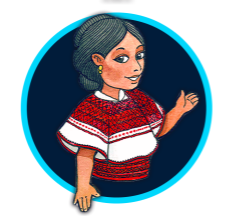
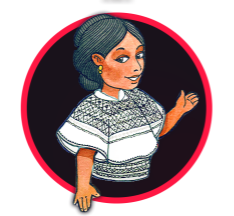
Juego 1: Correcciones

diff --git a/pantallas/juego1/js/main.js b/pantallas/juego1/js/main.js
@@ -2,12 +2,12 @@ var tablero;
 var gradSort=[];
 var texto=[
     '<p>Vamos a poner a prueba tus habilidades.</p><p><span class="colorAmarillo">Toca las piezas para alinear los tubos</span> y hacer que el agua fluya para llenar el  nuestro primer cántaros. Con ello podremos almacenar agua y mantenerla fresca.</p>',
-    '<p>Acabas de llenar tu primer cántaro. Cuando estés listo, pulsa para <span class="colorAmarillo">Siguiente</span> continuar...</p>',
-    '<p>Toca las piezas para alinearlas y hacer que el chorro de agua fluya para llenarel segundo cántaro y comenzar a armar una pila.</p>',
-    '<p><span class="colorVerde">¡Muy bien!</span> Acabas de llenar el segundo cántaro.Solo falta uno más</p>',
+    '<p>Acabas de llenar tu primer cántaro. Cuando estés listo, pulsa para <span class="colorAzul">Siguiente</span> continuar...</p>',
+    '<p>Toca las piezas para alinearlas y hacer que el chorro de agua fluya para llenar el segundo cántaro y comenzar a armar una pila.</p>',
+    '<p><span class="colorVerde">¡Muy bien!</span> Acabas de llenar el segundo cántaro.</p><p>¡Solo falta uno más!</p>',
     '<p>Toca las piezas para conectar los tubos y llenar el tercer cántaro.</p>',
     '<p>Ahora los cántaros de barro están llenos y habrá suficiente agua fresca para todos.<br><span class="colorVerde">¡Muchas gracias!</span></p>',
-    '<p>Muchas gracias por ayudarnos te has ganado la siguiente insignia como recompensa. <span class="colorAmarillo">Jaguar de Barro</span></p><p>Eso te convierte en un colega artesano experto en Barro.</p>',
+    '<p>Muchas gracias por ayudarnos te has ganado la siguiente insignia como recompensa.<br><span class="colorAmarillo">Jaguar de Barro</span></p><p>Eso te convierte en un colega artesano <span class="colorRojo">experto en Barro.</span></p>',
     '<p>Parece que a manchas le caíste muy bien, quizá te ayude en tu aventura para encontrar <b class="colorVerde">Grandes Maestros Artesanos</b> de todo el país y así descubrir sus <b>técnicas y materiales</b>.<br>¡Suerte en tu aventura!</p>'
 ]
 //                 0               1                2               3                4                 5
@@ -308,8 +308,12 @@ var gameData=[
 
 $(document).ready(inicio);
 function inicio(){
-    typingSound = new buzz.sound("../../audios/UX_Interaccion/blip.mp3",{loop: true,volume: 1});
-    aplausos = new buzz.sound("../../audios/Juegos/applause_VFX.mp3", {loop: false, volume: 1});
+    typingSound = new buzz.sound("../../audios/UX_Interaccion/blip.mp3",{loop: true, volume: 7});
+    aplausos = new buzz.sound("../../audios/Juegos/applause_VFX.mp3", {loop: false, volume: 20});
+    aplausosFin = new buzz.sound("../../audios/Juegos/Win_SergiodelaCruzHernan.mp3", {loop: false, volume: 2});
+    gracias = new buzz.sound('../../audios/editados/juego1.8.mp3', {loop: false,volume: 100});
+    vozFinal = new buzz.sound('../../audios/editados/juego1.9.mp3', {loop: false,volume: 100});
+    muyBien = new buzz.sound('audio/juego1-5.mp3', {loop: false,volume: 100});
     tablero = $('.gameActionWrp').html();
     cargarJuego(0);
     animartexto('.instTxt',texto[0]);
@@ -500,6 +504,7 @@ function nivelCompletado() {
         $('#niv1Ok').css('display','block');
         $('#chorroFinal').css({ 'top': '295px', 'display': 'block'});
         $('#btnDescripcion').css('display','block').off('click').on('click', jugar);
+        aplausos.play();
     }else if(nivel===2){
         txt = texto[3];
         imgElena = imgRoute+'bernardina.png';
@@ -507,6 +512,7 @@ function nivelCompletado() {
         $('#niv2Ok').css('display','block');
         $('#chorroFinal').css({ 'top': '140px', 'display': 'block'});
         $('#btnDescripcion').css('display','block').off('click').on('click', jugar);
+        muyBien.play();
     }else if(nivel===3){
         txt = texto[5];
         imgElena = imgRoute+'bernardina.png';
@@ -515,8 +521,8 @@ function nivelCompletado() {
         $('#chorroFinal').css({ 'top': '140px', 'display': 'block'});
         $('#btnDescripcion').css('display','block').off('click');
         $('#btnDescripcion').on('click', finalizar);
+        muyBien.play();
     }
-    aplausos.play();
     $('#elenaImagen').attr('src',imgElena);
     $('.instTxt').empty();
     animartexto('.instTxt', txt);
@@ -547,16 +553,18 @@ function validarCompletado(n){
     return true;
 }
 function finalizar() {
+    aplausosFin.play();
     confeti();
-
     $('.gameDesc h3').empty();
     imgPremio='<img src="img/premio.png" id="imgPremio" class="animated flipInX">';
     $('.gameboardWrpr').empty().append(imgPremio);
     imgElena=imgRoute+'elena.png';
     $('#elenaImagen').attr('src',imgElena);
     $('.instTxt').empty();
+    gracias.play();
     animartexto('.instTxt', texto[6]);
     $('#btnDescripcion').off('click').css('z-index','100').on('click', function(){
+        vozFinal.play();
         $('.instTxt').empty();
         animartexto('.instTxt', texto[7]);
         $(this).off('click');

diff --git a/pantallas/juego1/css/style.css b/pantallas/juego1/css/style.css
@@ -11,6 +11,12 @@ img {
 .colorVerde {
   color: #07dd00; }
 
+.colorAzul {
+  color: #00d7fc; }
+
+.colorRojo {
+  color: #ff1743; }
+
 .tuboInicio,
 .manivela,
 .finTubo {
@@ -114,8 +120,9 @@ img {
     right: -130px;
     top: 20px; }
   #juego1.contenedor {
-    width: 1920px;
-    height: 1080px; }
+    position: relative;
+    height: 1080px;
+    width: 1920px; }
   #juego1 .cabecera {
     position: relative;
     display: block;
@@ -178,20 +185,23 @@ img {
     border-left: solid 2px #00d7fc;
     border-top: solid 2px #00d7fc;
     background-color: #011c3a;
+    margin-left: -912.5px;
     align-items: center;
     position: absolute;
     padding-top: 10px;
-    margin: 0 auto;
     display: flex;
-    width: 1824px;
+    width: 1825px;
     height: 277px;
-    left: 48px;
+    left: 50%;
     bottom: 0; }
     #juego1 .gameinst .elenaimg {
       flex-basis: 320px; }
     #juego1 .gameinst .instTxt {
+      font-weight: bolder;
       flex-basis: 1500px;
       font-size: 28px; }
+    #juego1 .gameinst #elenaImagen {
+      margin: 0 auto; }
   #juego1 .jarrones {
     display: inline-block;
     vertical-align: top;
@@ -216,7 +226,5 @@ img {
     margin: 0 auto;
     width: 620px;
     height: 640px; }
-    #btnDescripcion img {
-      float: right;
-  }
+
 /*# sourceMappingURL=style.css.map */

diff --git a/pantallas/juego1/scss/style.scss b/pantallas/juego1/scss/style.scss
@@ -16,6 +16,12 @@ img {
 .colorVerde {
     color: $verde;
 }
+.colorAzul {
+    color: $azul;
+}
+.colorRojo {
+    color: $rojo;
+}
 .tuboInicio, 
 .manivela, 
 .finTubo {
@@ -128,8 +134,9 @@ img {
         top: 20px;
     }
     &.contenedor {
-        width: 1920px;
+        position: relative;
         height: 1080px;
+        width: 1920px;
     }
     .cabecera {
         position: relative;
@@ -204,21 +211,25 @@ img {
         border-left: solid 2px $azul;
         border-top: solid 2px $azul;
         background-color: #011c3a;
+        margin-left: -912.5px;
         align-items: center;
         position: absolute;
         padding-top: 10px;
-        margin: 0 auto;
         display: flex;
-        width: 1824px;
+        width: 1825px;
         height: 277px;
-        left: 48px;
+        left: 50%;
         bottom: 0;
         .elenaimg {
             flex-basis: 320px; 
         }
         .instTxt {
+            font-weight: bolder;
             flex-basis: 1500px;
             font-size: 28px;
+        }
+        #elenaImagen {
+            margin: 0 auto;
         }
     }
     .jarrones {

diff --git a/pantallas/juego1/index.html b/pantallas/juego1/index.html
@@ -76,7 +76,7 @@
 				<img src="img/manitaAzul.png" alt="Siguiente">
 			</button>
 			<div class="elenaimg">
-				<img src="img/elena.png" id="elenaImagen">
+				<img src="img/bernardina.png" id="elenaImagen">
 			</div>
 			<div class="instTxt"></div>
 		</div>
